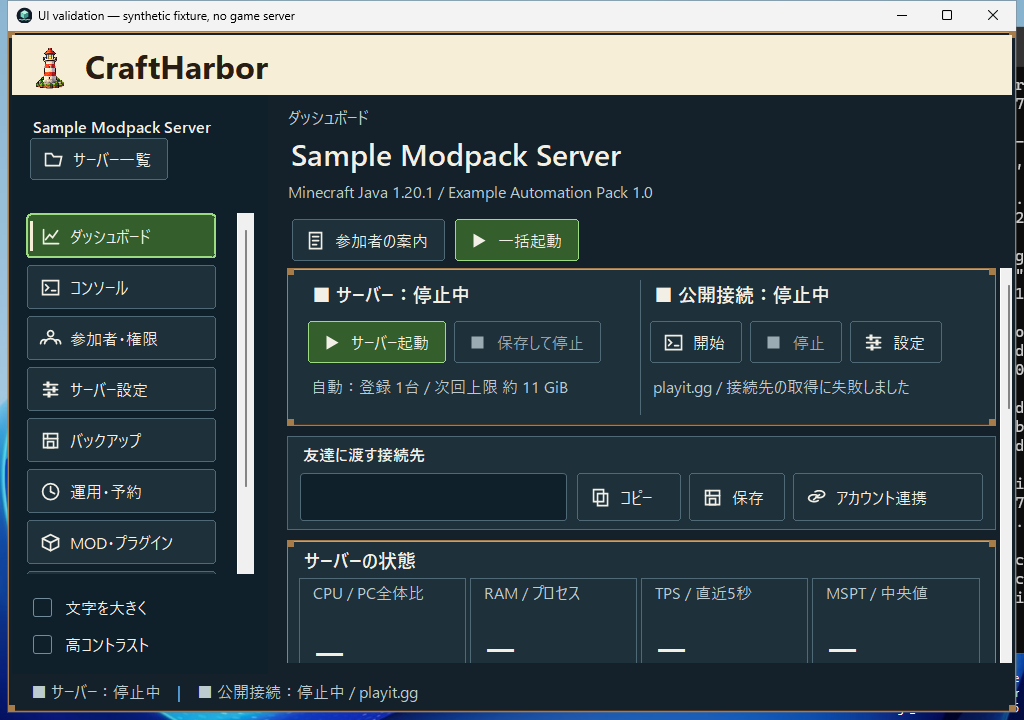
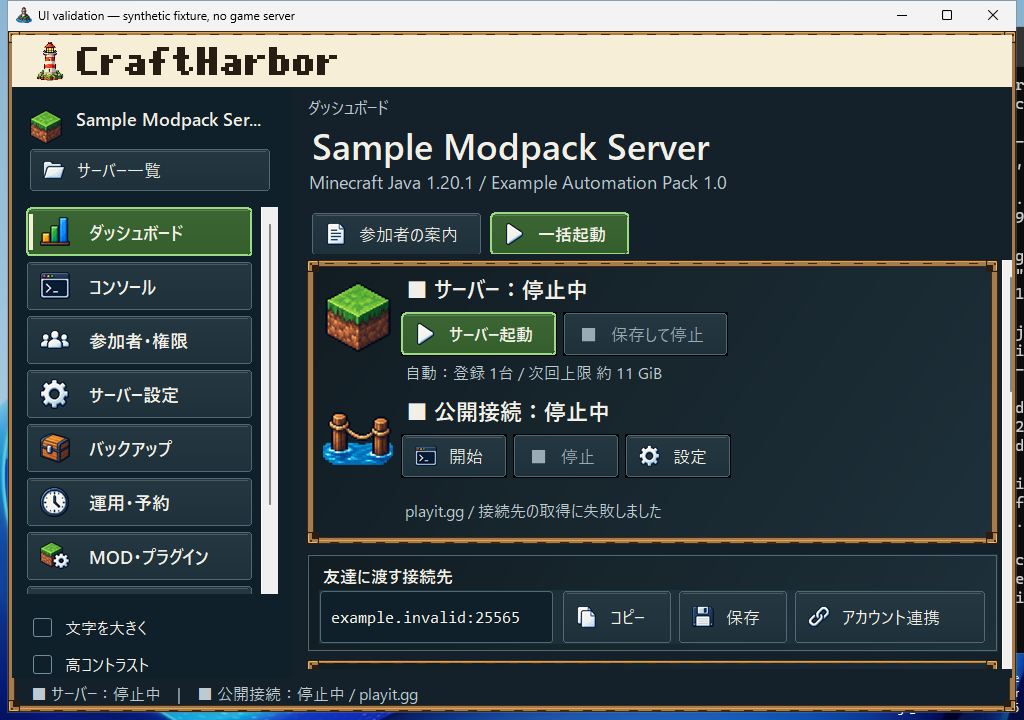
Document approved-design comparison and verified native UI captures

diff --git a/docs/UI_VERIFICATION.md b/docs/UI_VERIFICATION.md
@@ -1,10 +1,10 @@
 # Approved harbor UI: cloud verification
 
-This implementation preserves C#, Windows Forms and .NET Framework 4.8. Work used GitHub's repository API and GitHub-hosted Windows CI; the owner's PC, installed app, running server and connected devices were not accessed.
+The current implementation uses C#, Windows Forms and .NET Framework 4.8. Modern dependencies and dropping older OS support are permitted; this visual revision does not require a runtime migration. Work used GitHub's repository API and GitHub-hosted Windows CI; the owner's PC, installed app, running server and connected devices were not accessed.
 
 ## Scope and visual review
 
-The approved design supersedes the former mint palette. Shared native controls now provide a cream masthead, embedded lighthouse/harbor artwork, navy panels, green primary/selected buttons, thin wooden frames, and visible selection/focus markers. Nine pages and the server-list, hosting and URL-import dialogs use the common treatment. The schedule time field uses native numeric inputs so it also follows the theme.
+The approved design supersedes the former mint palette. Shared native controls now provide a cream masthead, embedded lighthouse/harbor artwork, navy panels, green primary/selected buttons, layered wooden rails, pixel wordmark, generated 24-icon atlas, taller harbor artwork and visible selection/focus markers. Nine pages and the server-list, hosting and URL-import dialogs use the common treatment. The schedule time field uses native numeric inputs so it also follows the theme. The seven-size lighthouse ICO is shared by the app, setup and uninstall launcher. See [the approved-reference comparison](UI_COMPARISON.md) for same-size before/after captures and remaining visual differences.
 
 The dashboard shows independent game/public states, the configured provider, address sharing, four main metrics and three secondary values, existing CPU/RAM history, and the last ten records from the console's bounded history. At narrow widths, the graph and recent logs stack and the page scrolls; forms wrap and table pages retain a minimum usable list area. Selecting a page reveals its navigation item.
 
@@ -12,11 +12,11 @@ All screenshots contain isolated fixtures. Server names, endpoints, logs and plo
 
 ## Screenshots
 
-Captured from source revision `48ca5c773e2b75aadb38468d0bcf1370f1308bb7` in [Windows CI](https://github.com/g-kari/craftharbor/actions/runs/40124319471). The full artifact includes the remaining pages and dialog captures.
+Captured from application source revision `eb4c3b4bf5137aae3cbe5f6a544cb428758c8623` in [Windows CI](https://github.com/g-kari/craftharbor/actions/runs/40127741012). Later documentation/evidence commits do not change application rendering; [the PR checks](https://github.com/g-kari/craftharbor/pull/1/checks) verify the final branch. The full artifact includes the remaining pages and dialog captures.
 
 ![Wide dashboard, stopped game / running public connection](images/dashboard-wide.png)
 
-![Narrow console](images/console-narrow.png)
+![Narrow console](images/console-narrow.jpg)
 
 ![Actual hosted Windows desktop: narrow dashboard](images/dashboard-narrow-native.png)
 
@@ -31,6 +31,8 @@ Captured from source revision `48ca5c773e2b75aadb38468d0bcf1370f1308bb7` in [Win
 | tools/check-integrations.ps1 | Passed; fake child retained its PID while UI closed/reopened, reattached, accepted commands and stopped gracefully |
 | tools/check-java.ps1 | Java 17 accepted the computed low-memory test options |
 | tools/check-ui.ps1: vanilla, modpack, argfile | Passed |
+| Reference-size dashboard at 1536×1024 | All nine navigation entries fit, complete address action labels, visible history-state badge and bottom graph/log actions fit asserted |
+| Primary-button hover contrast | Brightest hover highlight is 5.36:1; minimum 4.5:1 asserted |
 | Nine pages at 1360×960 and 1024×720 | Native DrawToBitmap captures reviewed; actual dimensions asserted |
 | Nine pages at 1024×720 with large text + high contrast | Captured; minimum 12pt and enlarged chart legend asserted |
 | Server stopped / public connection running | Separate enabled states and provider display asserted for all 4 providers × 4 running-state combinations |
@@ -40,10 +42,10 @@ Captured from source revision `48ca5c773e2b75aadb38468d0bcf1370f1308bb7` in [Win
 | Graph rollover and stale/stopped values | Existing 300-point/five-minute window, sample gaps and historical/stopped label checks passed |
 | Setup, uninstall and data retention | Isolated CI installation passed; synthetic world/settings retained after uninstall |
 
-Text contrast ratios are 14.35:1 on the workspace, 11.94:1 on panels, 6.52:1 on primary buttons, and 8.16:1 for muted text on panels (WCAG relative-luminance calculation).
+Text contrast ratios are 14.35:1 on the workspace, 11.94:1 on panels, 6.52:1 on primary buttons, 5.36:1 at the brightest primary hover highlight, and 8.16:1 for muted text on panels (WCAG relative-luminance calculation).
 
 ## Limits
 
 Physical high-DPI and multi-monitor transitions, assistive-technology output, foreground native keyboard delivery, interactive minimize/maximize/drag behavior, and an actual Minecraft/public-tunnel session are not verified by these fixtures. Existing DPI mode, native window controls, keyboard handlers, dialog Escape handling, and server lifecycle/storage code are retained. No update was installed on the owner's PC.
 
-DrawToBitmap is off-screen native control rendering, not a photograph of a physical display. Hosted-desktop captures are also included for the narrow dashboard and the enlarged/high-contrast graph. They use a fresh GitHub Windows runner's screen, not the owner's PC. The off-screen DrawToBitmap view can omit surrounding controls after scrolling; the hosted-desktop capture confirmed those controls remain visible. Full screenshot sets, check reports, setup.exe and the portable build are in the CI artifact. 
+DrawToBitmap is off-screen native control rendering, not a photograph of a physical display. Hosted-desktop captures are also included for the narrow dashboard and the enlarged/high-contrast graph. They use a fresh GitHub Windows runner's screen, not the owner's PC. The off-screen DrawToBitmap view can omit surrounding controls after scrolling; the hosted-desktop capture confirmed those controls remain visible. Full lossless screenshot sets, check reports, setup.exe and the portable build are in the CI artifact. Completed job logs also expose lossless native PNGs for all nine normal and enlarged/high-contrast pages and the dialogs. Downloads from an active job can be incomplete; review the completed job output. The console image in this document is a JPEG preview; the original PNG is in the artifact. 

diff --git a/docs/UI_COMPARISON.md b/docs/UI_COMPARISON.md
@@ -1,0 +1,48 @@
+# 採用デザインとの比較 — 2026-10-25
+
+前回の実装は配色を合わせることが中心で、採用画像のアイコン、文字の強弱、密度、木枠、港の装飾が十分に再現できていませんでした。この改修では実際のコントロールと共通描画部品を変更しました。
+
+## 同じサイズでの変更前後
+
+採用画像と同じ **1536×1024** のウィンドウで比較しています。以下はクラウドのWindows CIで描画したアプリです。サーバー名・接続先・ログ・グラフは表示検証用の合成データで、本番画面は既存の実データを表示します。
+
+### 改修前
+
+![改修前の実描画・1536×1024](images/dashboard-before-refinement.png)
+
+### 改修後
+
+![改修後の実描画・1536×1024](images/dashboard-wide.png)
+
+## 採用画像を基準にした評価
+
+| 比較項目 | 改修前の不足 | 今回の対応 |
+| --- | --- | --- |
+| クリーム色のヘッダー・灯台・ロゴ | 通常書体のロゴで印象が異なる | ピクセル描画のロゴに変更。灯台とクリーム色を維持 |
+| サイドバー | 単色の小さいアイコン、文字が弱い | 30pxの生成アイコン、13.5ptの太字、枠と選択マーカー。通常サイズは9項目が収まるよう調整 |
+| サーバーと公開接続 | 採用画像の象徴的なイラストがない | 草ブロックと港のイラストを個別に配置。稼働状態と操作可否は独立したまま |
+| 木枠 | 茶色の線だけに近い | 明暗・短い木目・ピクセル形状の金具を共通描画 |
+| サーバー名・情報階層 | 小さい見出しに対して余白が大きい | 27ptのサーバー名、13.5ptのメタ情報、16ptのセクション見出し |
+| 接続先 | ラベルと入力欄で2段を占有 | 広い画面ではラベル・入力・コピー・保存・連携を横一列に |
+| メトリクス | 空白が大きい7枚のカード | 4つの主要値と3つの補助値に強弱をつけ、アイコンを追加。狭い画面は折り返す |
+| グラフと最近のログ | 同じ1536×1024でも下部が切れる | 残りの高さを割り当て、グラフ・ログ・補助操作まで表示。状態は専用ラベルで明示 |
+| 左下の港 | 横長で小さい | 灯台・小屋・クレーン・水面の独立した透過素材を生成 |
+| アプリ/配布アイコン | 別のロゴが残る | 同じ灯台から16〜256pxの7サイズのICOをビルドし、アプリ・setup・uninstallで共有 |
+
+## 生成素材
+
+24種類のアイコンを透過アトラスとして生成し、ネイティブ描画で必要な領域を選んで表示しています。UI画像を背景として貼ったものではありません。入力・ボタン・一覧・グラフは操作可能なコントロールです。
+
+- [24種類のアイコン](../assets/harbor-icons.png)
+- [灯台と港の装飾](../assets/harbor-tall.png)
+- [素材の出典と扱い](../assets/ARTWORK.md)
+
+## 意図的に異なる部分・検証の限界
+
+- Windows標準のタイトルバーを残しています。採用画像の単一ヘッダーとは異なりますが、OS標準の移動・サイズ変更・最大化・最小化を維持します。
+- 生成した絵とロゴは採用画像の方向性に合わせた独立素材です。ピクセル単位の同一性を主張するものではありません。
+- 通常の本文・入力・数値・グラフは可読性を優先した書体で、12pt以上を維持します。
+- ライブラリやOS互換性の制限は設計条件から外しました。今回の差分は共通描画とレイアウトの変更で実現できるため、ランタイムの移行や依存ライブラリの追加は行っていません。
+- 物理モニターの高DPI切替、複数モニター移動、スクリーンリーダー、実Minecraftの接続は今回のクラウド検証の対象外です。
+
+ビルド・機能チェック・実描画の証拠と正確な検証範囲は [UI_VERIFICATION.md](UI_VERIFICATION.md) に記録しています。ユーザーのPCでのアプリ操作やインストールは行っていません。

diff --git a/docs/DESIGN.md b/docs/DESIGN.md
@@ -1,20 +1,20 @@
 # CraftHarbor UI — lighthouse and harbor
 
-The approved October 2026 app design takes precedence over the former navy/mint design. C#, Windows Forms and .NET Framework 4.8 remain the implementation.
+The approved October 2026 app design takes precedence over the former navy/mint design. The application currently uses native C# / Windows Forms. The owner permits dependency/runtime upgrades and dropping old OS support when useful; those are no longer design constraints. This revision implements the approved composition through shared native painting and generated assets, without adding a UI library or migrating the process/storage layer.
 
 ## Shared visual system
 
 `HarborTheme` owns the palette: cream header #F7EED8, navy workspace #14212A, panels #1E303A, green primary/selected controls #345F2C, wood trim #A67C4A, body text #F2F0E6. Muted text is #BBCBD0; borders #506976; focus #F2D28A. The primary green is a surface, not small text on navy. Selection also has an inset border and light vertical marker. Keyboard focus has a dotted outline.
 
-`ActionButton`, `SurfacePanel`, `SurfaceTable`, `HarborFrame`, `InputFrame`, `HarborChoice`, `HarborCheckBox` and `HarborNumber` and `HarborTimeField` provide shared treatment across pages and dialogs. Frames are thin and corners modestly pixel-shaped. Pixel artwork is reserved for the logo and decoration; no rendered mockup is used as a UI background.
+`ActionButton`, `SurfacePanel`, `SurfaceTable`, `HarborFrame`, `InputFrame`, `HarborChoice`, `HarborCheckBox` and `HarborNumber` and `HarborTimeField` provide shared treatment across pages and dialogs. Frames have deterministic wood-grain rails, light/dark edges and inset pixel brackets. Primary buttons have a restrained bevel and gradient; navigation uses a larger 30px icon, border and selection marker. Pixel artwork is reserved for the logo and decoration; no rendered mockup is used as a UI background.
 
 Yu Gothic UI is used for Japanese text and normal readable fonts for metrics, input and charts. Body text, buttons, input and chart labels are at least 12pt, with a 1.16× large-text setting. The native Windows title bar, resize borders and normal window controls remain intact; the cream masthead is part of the client area.
 
 ## Navigation and hierarchy
 
-The sidebar retains the current server, server list, nine page destinations, large text and high contrast. Its navigation scrolls when needed. The harbor illustration is omitted when height is insufficient and in high contrast.
+A compact pixel-drawn wordmark shares the cream masthead with the lighthouse. A transparent 24-icon atlas supplies illustrations and operation symbols; the larger tall harbor illustration is a separate decorative asset. The sidebar retains the current server, server list, nine page destinations, large text and high contrast. Its navigation scrolls when needed. The harbor illustration is omitted when height is insufficient and in high contrast.
 
-The dashboard has the server identity and main actions, independent game/public-connection controls, shareable address, four primary metrics, three secondary metrics, CPU/RAM history and recent logs, then metric actions. The chart and recent logs are side by side at wide widths and stacked at narrower widths. The dashboard scrolls as a whole. Forms and table pages retain their working area and wrap action rows instead of forcing identical card layouts.
+The dashboard has the server identity and main actions, independent game/public-connection controls, shareable address, four primary metrics, three secondary metrics, CPU/RAM history and recent logs, then metric actions. At wide widths the endpoint label, input and actions share one row; secondary metrics share one horizontal band. The chart and recent logs are side by side, and their height uses the remaining viewport so the wide dashboard includes its bottom actions without scrolling. Narrow widths stack the game/public panels, reflow primary metrics to two columns, stack the graph/logs and allow vertical scrolling. Forms and table pages retain their working area and wrap action rows instead of forcing identical card layouts.
 
 ## Data and states
 

diff --git a/assets/ARTWORK.md b/assets/ARTWORK.md
@@ -11,3 +11,5 @@ The repository's MIT license applies to the original CraftHarbor artwork. Copyri
 The lighthouse, tall harbor and atlas are embedded into both binaries. No controls, text, credentials, game textures or user worlds are baked into artwork. Controls remain native and operable. Decoration is excluded from keyboard navigation. High-contrast mode hides harbor decoration and uses monochrome operation symbols.
 
 `tools/prepare-art.ps1` only reproduces the two original promotional assets. It does not replace the new atlas or tall harbor.
+
+`tools/build-icons.ps1` packages the atlas lighthouse into a seven-size (16, 24, 32, 48, 64, 128, 256) transparent ICO during the build. The app, setup, uninstall launcher and installed icon all use that same output. The original source atlas remains unchanged.
